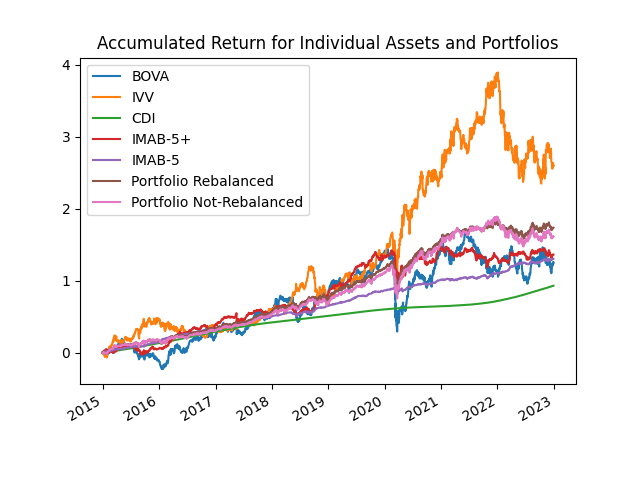
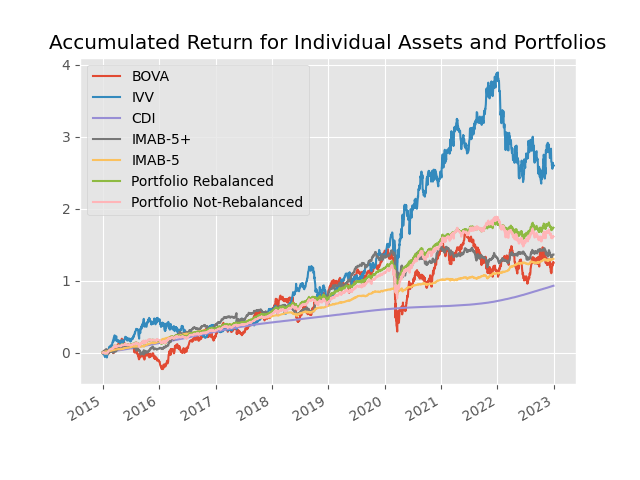
Add files via upload

diff --git a/simulation.py b/simulation.py
@@ -12,7 +12,7 @@ from bcb import currency
 import risk_kit
 import matplotlib.pyplot as plt
 
-plt.style.context('ggplot')
+plt.style.use('ggplot')
 
 def rebalance_portfolio(lista_capital, lista_weights):
   '''
